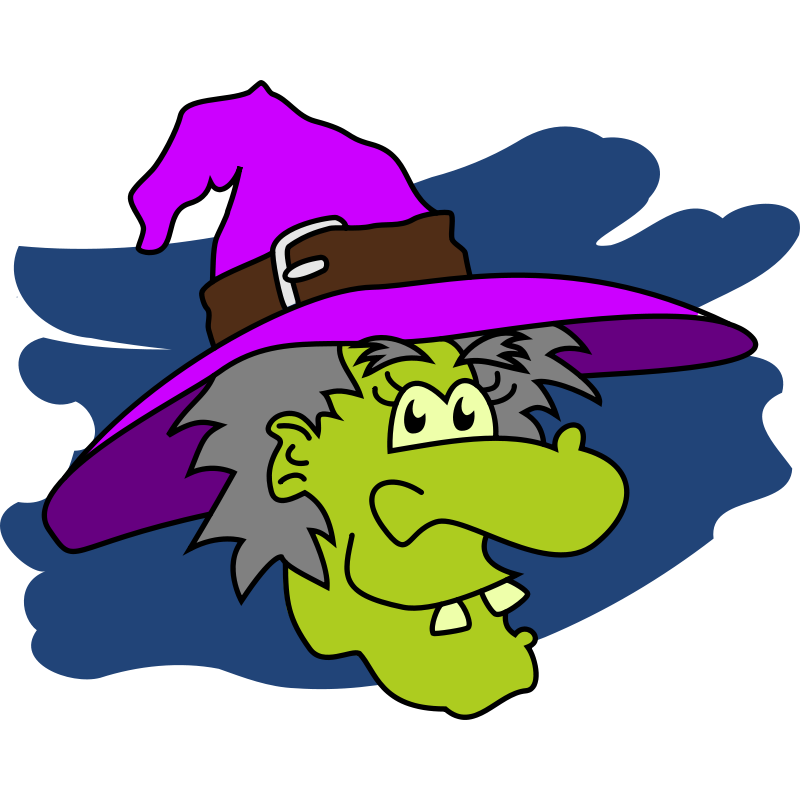
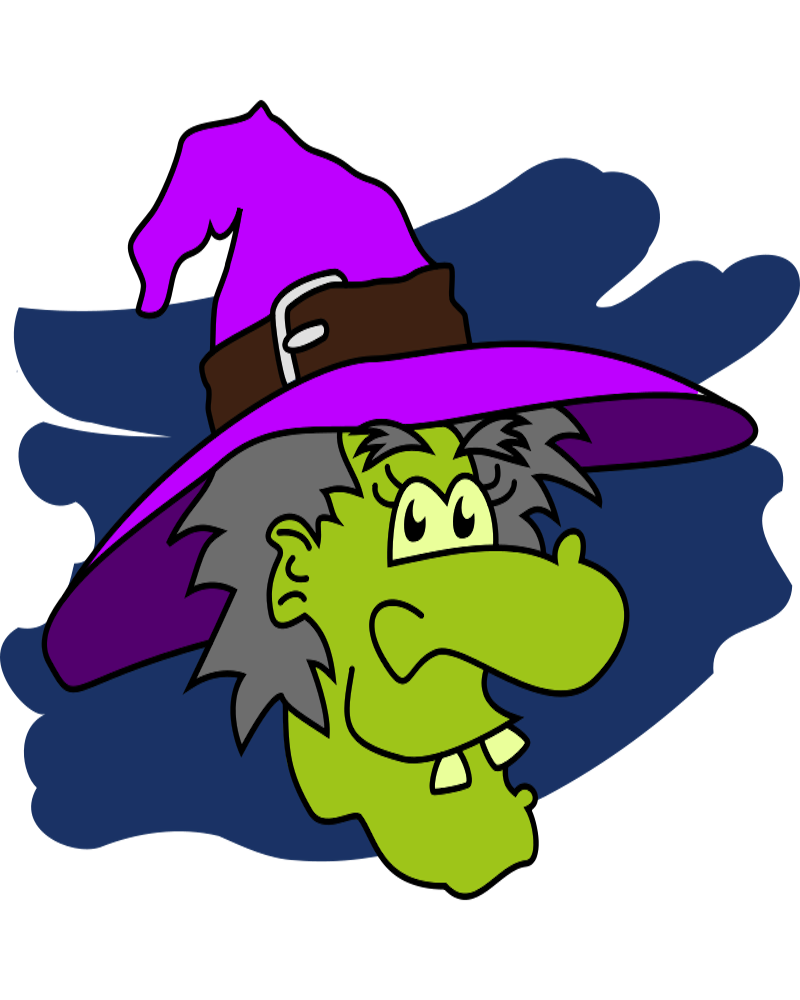
fixed witch and wizard images

diff --git a/HUD.js b/HUD.js
@@ -211,7 +211,7 @@ function HUD() {
 	    
 	    person = new CL3D.Overlay2DSceneNode(engine);
         scene.getRootSceneNode().addChild(person);
-        person.set2DPosition(10, 600, 180, 750);
+        person.set2DPosition(10, 560, 180, 700);
         person.setShowBackgroundColor(true, CL3D.createColor(0, 0, 0, 0));
         person.setShowImage(engine.getTextureManager().getTexture(img, true));
 	}
